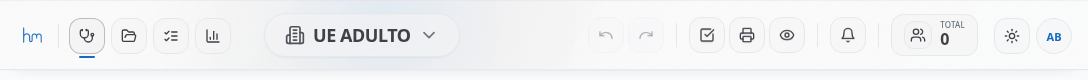
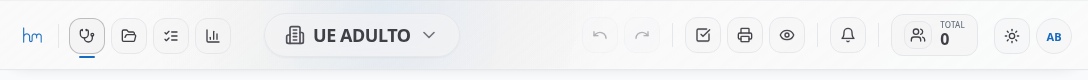
Changes

Changed region(s): [[0.5312, 0.35, 0.7188, 0.525], [0.8125, 0.45, 0.8438, 0.475], [0.25, 0.3, 0.2812, 0.325]]

diff --git a/src/pages/Index.tsx b/src/pages/Index.tsx
@@ -1095,7 +1095,7 @@ const Index = () => {
                         <DropdownMenuTrigger asChild>
                           <button className="inline-flex max-w-full min-w-0 items-center gap-2 h-10 sm:h-11 px-4 sm:px-5 bg-sidebar-accent/70 backdrop-blur-sm border border-sidebar-border text-sidebar-foreground text-base sm:text-lg font-bold uppercase tracking-tight hover:bg-sidebar-accent hover:border-sidebar-foreground/30 transition-all duration-200 rounded-full cursor-pointer shadow-sm hover:shadow-md">
                             <Building2 className="h-4 sm:h-5 w-4 sm:w-5 flex-shrink-0 opacity-90" />
-                            <span className="truncate">{getDepartmentLabel(currentDepartment)}</span>
+                            <span className="truncate md:hidden lg:inline">{getDepartmentLabel(currentDepartment)}</span>
                             <ChevronDown className="h-4 sm:h-5 w-4 sm:w-5 flex-shrink-0 opacity-70" />
                           </button>
                         </DropdownMenuTrigger>
@@ -1233,7 +1233,7 @@ const Index = () => {
                     <>
                       <TooltipProvider delayDuration={300}>
                       {/* Action buttons group */}
-                      <div className="flex items-center gap-1 print:hidden">
+                      <div className="flex items-center gap-1.5 print:hidden">
                         <Tooltip>
                           <TooltipTrigger asChild>
                             <Button variant="outline" size="icon" onClick={handleUndo} disabled={history.length === 0}
@@ -1260,7 +1260,7 @@ const Index = () => {
                       <div className="h-6 w-px bg-sidebar-border print:hidden hidden sm:block" />
 
                       {/* Selection & Print group */}
-                      <div className="flex items-center gap-1 print:hidden">
+                      <div className="flex items-center gap-1.5 print:hidden">
                         <Tooltip>
                           <TooltipTrigger asChild>
                             <Button
@@ -1321,7 +1321,7 @@ const Index = () => {
                       <div className="h-6 w-px bg-sidebar-border print:hidden hidden sm:block" />
 
                       {/* Notifications & Info group */}
-                      <div className="flex items-center gap-1 print:hidden">
+                      <div className="flex items-center gap-1.5 print:hidden">
                         <NotificationCenter />
                         {/* Solicitações de Alocação — funcionalidade oculta (código preservado) */}
                         {/* <BedAllocationNotifications /> */}
